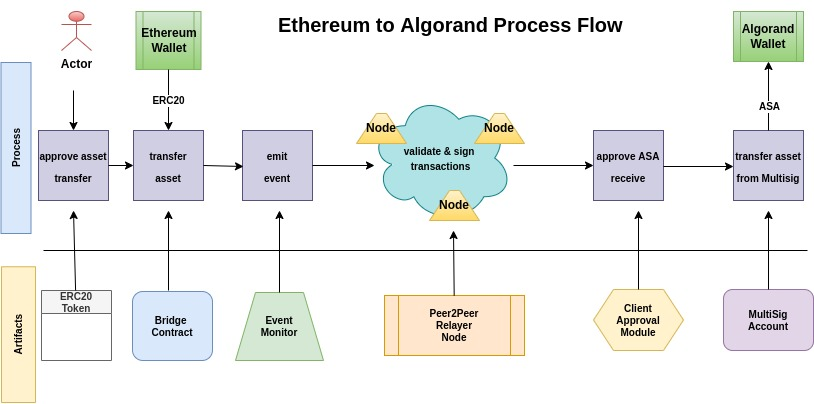
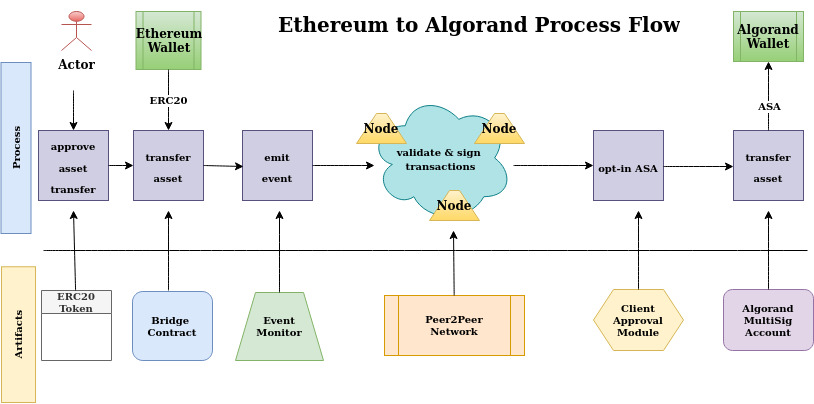
GitBook: [#26] No subject

diff --git a/concepts-and-architecture/architecture.md b/concepts-and-architecture/architecture.md
@@ -6,8 +6,12 @@ description: Zero Bridge
 
 <mark style="color:red;">How do we want to display the architecture in a structured and visual way to cover all scenarios.</mark>
 
-Zero Bridge architecture ensures secure and reliable asset transfer between the chains by using peer-to-peer soldier network that validates the messages before it is submitted on the chain.
+Zero Bridge architecture ensures secure and reliable asset transfer between the chains. The system has Bridge Smart Contract and Zero Bridge tokens deployed in the Ethereum and Polygon chain and a multisig account owning the ASA created in the Algorand chain. As part of boostrapping the system, the Contract is deployed with a set of trusted soldiers. There is an ERC20 to ASA mapping defined in the system. As the user request to transfer an asset is submitted on theh chain, it is monitored by respective processes. The peer-to-peer soldier network that generates a sryptographic proof by verifying threshold message signatures off chain and submits on the chain. The multisig is further verified on chain before the asset is released. System throughput can be improved by bundling the transactions.
 
 
 
 ![](../.gitbook/assets/2.bridge-arch.jpg)
+
+The detail steps and its interaction with individual components for an Ethereum to Algorand asset transfer is shown below:
+
+![](../.gitbook/assets/2.bridge-arch-flow.jpg)
